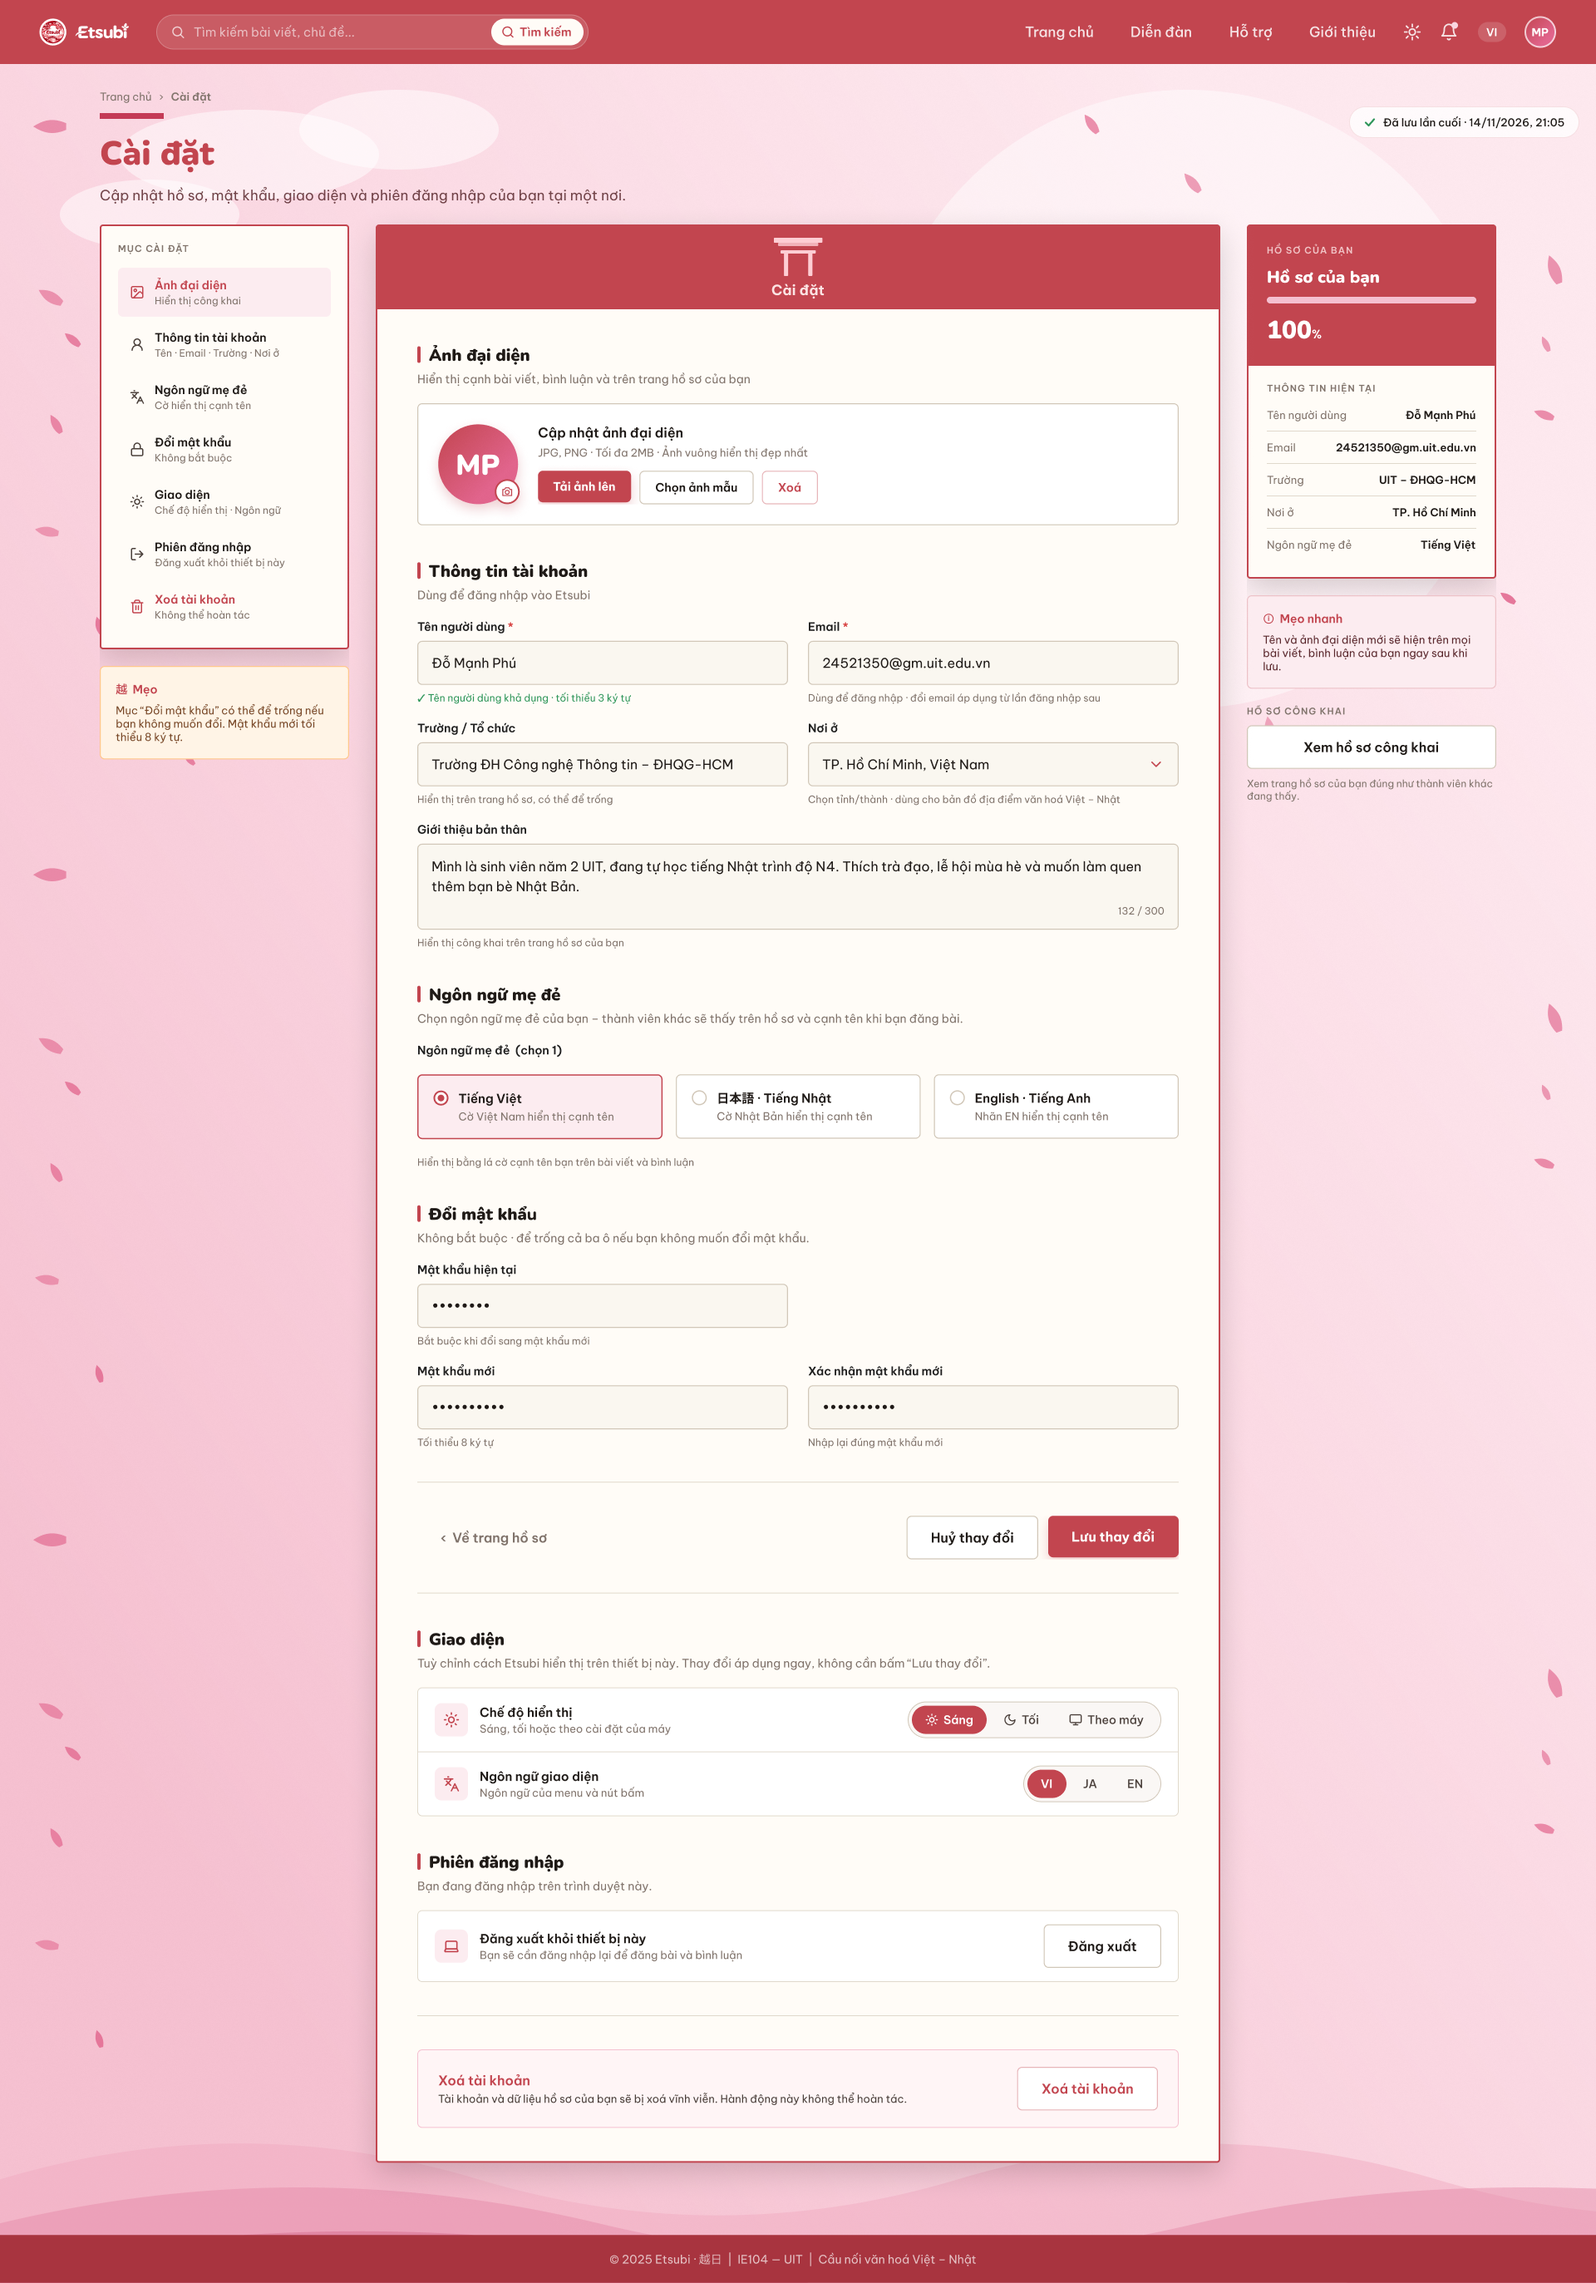
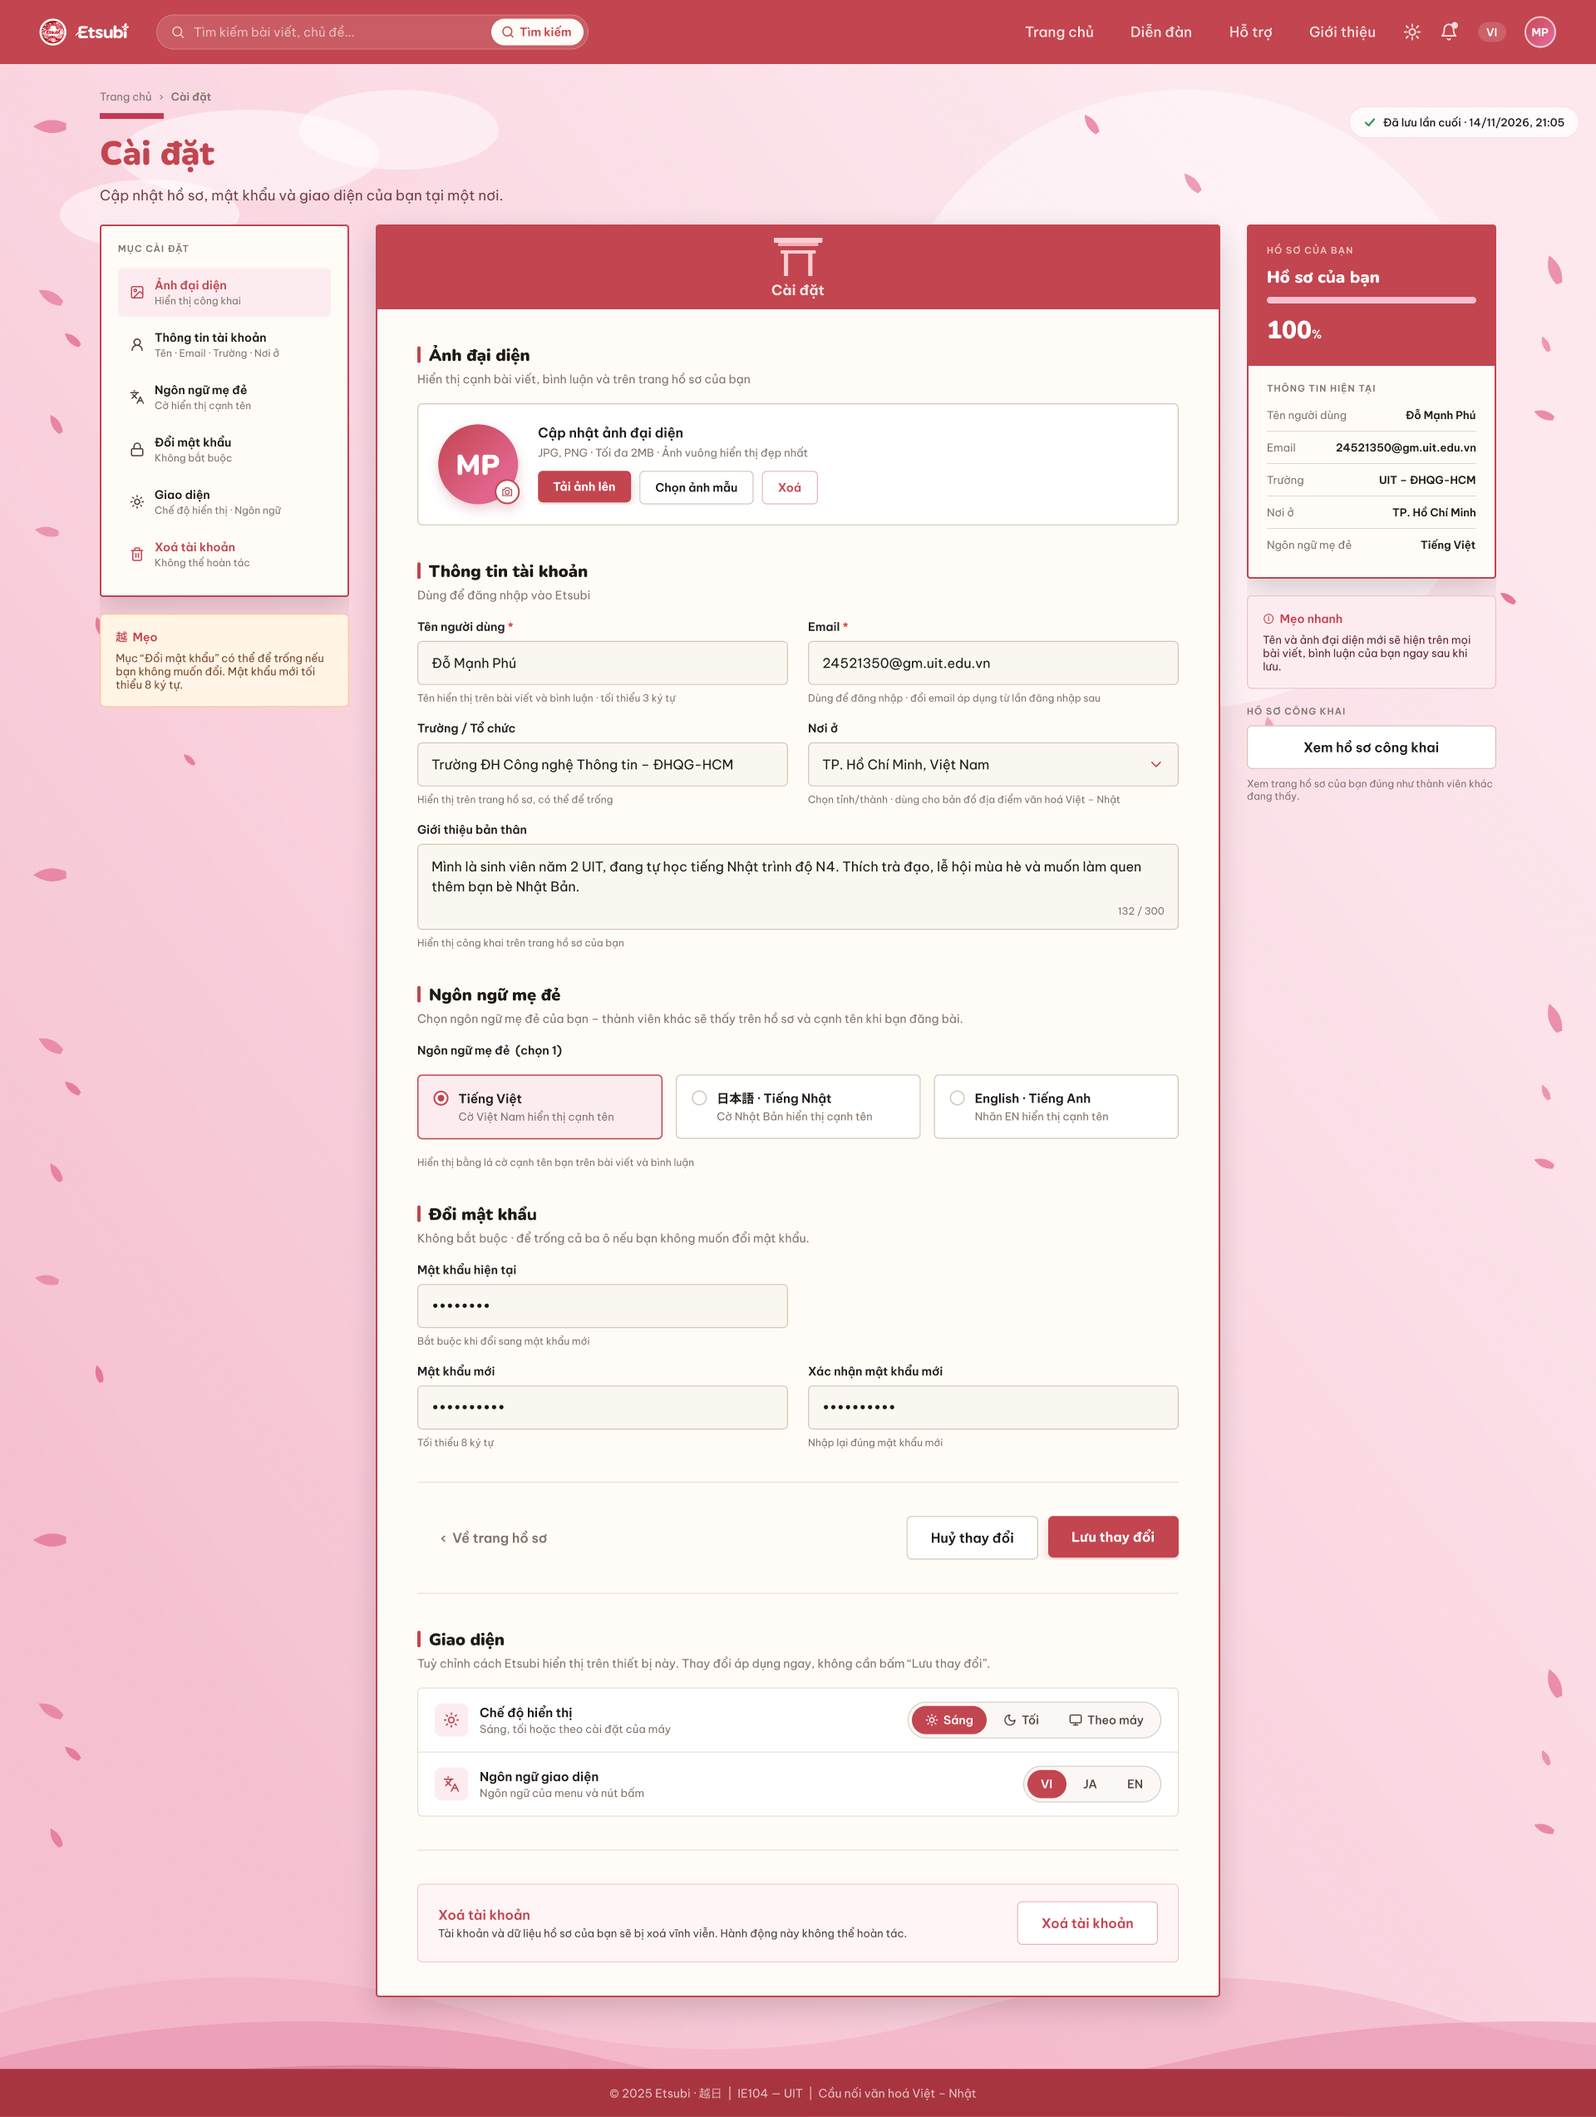
feat(fe): remove the session section from Settings
Follows the updated Figma 323:2611 (1920x2546). Sign-out stays in the avatar
menu; old #section-session links land on Giao diện.

diff --git a/frontend/pages/settings.html b/frontend/pages/settings.html
@@ -35,7 +35,7 @@
             </nav>
             <span class="profile-heading__accent" aria-hidden="true"></span>
             <h1 class="t-display">Cài đặt</h1>
-            <p>Cập nhật hồ sơ, mật khẩu, giao diện và phiên đăng nhập của bạn tại một nơi.</p>
+            <p>Cập nhật hồ sơ, mật khẩu và giao diện của bạn tại một nơi.</p>
           </div>
           <p class="profile-draft" role="status" data-saved-pill>
             <img src="/assets/icons/saved-tick.svg" width="16" height="16" alt="" />
@@ -62,13 +62,6 @@
                   <a class="edit-settings__link" href="#section-appearance" data-settings-link="section-appearance">
                     <svg width="18" height="18" viewBox="0 0 24 24" fill="none" stroke="currentColor" stroke-width="2" stroke-linecap="round" stroke-linejoin="round" aria-hidden="true"><circle cx="12" cy="12" r="4" /><path d="M12 2v2m0 16v2M2 12h2m16 0h2M4.93 4.93l1.42 1.42m11.3 11.3 1.42 1.42M4.93 19.07l1.42-1.42m11.3-11.3 1.42-1.42" /></svg>
                     <span><strong>Giao diện</strong><small>Chế độ hiển thị · Ngôn ngữ</small></span>
-                  </a>
-                </li>
-                <!-- Mục phiên đăng nhập: neo tới khối tương ứng, dùng icon Lucide vuông theo màu chữ. -->
-                <li>
-                  <a class="edit-settings__link" href="#section-session" data-settings-link="section-session">
-                    <svg width="18" height="18" viewBox="0 0 24 24" fill="none" stroke="currentColor" stroke-width="2" stroke-linecap="round" stroke-linejoin="round" aria-hidden="true"><path d="M9 21H5a2 2 0 0 1-2-2V5a2 2 0 0 1 2-2h4m7 14 5-5-5-5m5 5H9" /></svg>
-                    <span><strong>Phiên đăng nhập</strong><small>Đăng xuất khỏi thiết bị này</small></span>
                   </a>
                 </li>
                 <!-- Mục xoá tài khoản: Lucide dùng viewBox vuông, nét tròn và màu kế thừa. -->
@@ -126,7 +119,7 @@
                     <div class="field">
                       <label class="field__label" for="username">Tên người dùng <span class="field__required">*</span></label>
                       <input class="input" id="username" name="username" autocomplete="username" aria-describedby="username-hint" required />
-                      <p class="field__hint" id="username-hint" data-username-hint>Tên cần ít nhất 3 ký tự.</p>
+                      <p class="field__hint" id="username-hint" data-username-hint>Tên hiển thị trên bài viết và bình luận · tối thiểu 3 ký tự</p>
                     </div>
                     <div class="field">
                       <label class="field__label" for="email">Email <span class="field__required">*</span></label>
@@ -251,24 +244,7 @@
                   <p class="field__hint" id="interface-language-hint">Bản dịch JA/EN của giao diện sắp có.</p>
                 </div>
               </section>
-              <!-- Phiên hiện tại có thao tác riêng, không gửi hoặc lưu biểu mẫu hồ sơ. -->
-              <section class="profile-section" id="section-session" tabindex="-1" aria-labelledby="session-title">
-                <div class="profile-section__heading">
-                  <h2 class="t-display" id="session-title">Phiên đăng nhập</h2>
-                  <p>Bạn đang đăng nhập trên trình duyệt này.</p>
-                </div>
-                <div class="settings-list">
-                  <div class="settings-row">
-                    <span class="settings-row__icon"><svg width="20" height="20" viewBox="0 0 24 24" fill="none" stroke="currentColor" stroke-width="2" stroke-linecap="round" stroke-linejoin="round" aria-hidden="true"><path d="M18 5a1 1 0 0 1 1 1v8H5V6a1 1 0 0 1 1-1Zm-16 14h20l-3-5H5Z" /></svg></span>
-                    <div class="settings-row__copy">
-                      <h3>Đăng xuất khỏi thiết bị này</h3>
-                      <p>Bạn sẽ cần đăng nhập lại để đăng bài và bình luận</p>
-                    </div>
-                    <button class="btn btn--secondary" type="button" data-logout disabled>Đăng xuất</button>
-                  </div>
-                </div>
-              </section>
-              <!-- Vạch ngăn tách hành động xoá vĩnh viễn khỏi quản lý phiên. -->
+              <!-- Một vạch ngăn tách Giao diện khỏi hành động xoá tài khoản vĩnh viễn. -->
               <hr class="settings-divider" />
               <!-- Vùng nguy hiểm cần xác nhận riêng bằng mật khẩu và không tự gửi form hồ sơ. -->
               <section class="edit-danger" id="section-delete" tabindex="-1" aria-labelledby="delete-title">

diff --git a/frontend/pages/settings.js b/frontend/pages/settings.js
@@ -50,7 +50,7 @@ let navigationSection = location.hash.slice(1);
 
 // Gợi ý mặc định được khôi phục khi huỷ hoặc khi người dùng sửa ô đang có lỗi.
 const defaultHints = {
-  username: 'Tên cần ít nhất 3 ký tự.',
+  username: 'Tên hiển thị trên bài viết và bình luận · tối thiểu 3 ký tự',
   email: 'Dùng để đăng nhập · đổi email áp dụng từ lần đăng nhập sau',
   bio: 'Hiển thị công khai trên trang hồ sơ của bạn',
   native: 'Hiển thị bằng lá cờ cạnh tên bạn trên bài viết và bình luận',
@@ -144,12 +144,8 @@ function setFieldError(name, message = '') {
   }
   hint.textContent = message || defaultHints[name];
   hint.classList.toggle('field__hint--error', Boolean(message));
-  const valid = name === 'username' && !message && validUsername(input(name).value);
-  hint.classList.toggle('field__hint--success', valid);
-  if (valid) {
-    // Câu chữ từ Figma chỉ xác nhận độ dài cục bộ; API kiểm tra trùng tên khi bấm lưu.
-    hint.textContent = '✓ Tên người dùng khả dụng · tối thiểu 3 ký tự';
-  }
+  // Gợi ý hợp lệ dùng màu muted, chỉ xác nhận độ dài; giữ nguyên lỗi từ máy chủ.
+  hint.classList.remove('field__hint--success');
 }
 
 /** Khôi phục mọi gợi ý và bỏ lỗi form khi huỷ hoặc khi tải thành công. */
@@ -239,7 +235,6 @@ function setBusy(value, saving = false) {
   fields.disabled = value || !ready;
   submitButton.disabled = value || !ready;
   qs('[data-delete-open]').disabled = value || !ready;
-  qs('[data-logout]').disabled = value || !ready;
   form.setAttribute('aria-busy', String(value));
   submitButton.textContent = saving ? 'Đang lưu…' : 'Lưu thay đổi';
   if (serverValues) {
@@ -426,7 +421,7 @@ function activateSection(id) {
   }
 }
 
-/** Mỗi lần cuộn chỉ đo bảy đề mục và chọn mục gần mép trên khả dụng nhất, không điều khiển chuyển động. */
+/** Mỗi lần cuộn chỉ đo sáu đề mục và chọn mục gần mép trên khả dụng nhất, không điều khiển chuyển động. */
 function updateActiveSection() {
   const top = qs('[data-component="header"]').getBoundingClientRect().bottom;
   let closest = null;
@@ -604,15 +599,15 @@ function initializePreferences() {
   }
 }
 
-/** Tiện ích đăng xuất tự xoá phiên và về routes.home kể cả khi lỗi mạng. */
-async function logoutSession() {
-  if (!ready || busy || deleting) {
+/** Liên kết phiên cũ chuyển tới Giao diện mà không thêm lịch sử hoặc cuộn mượt. */
+function redirectLegacySessionAnchor() {
+  if (location.hash !== '#section-session') {
     return;
   }
-  setBusy(true);
-  const button = qs('[data-logout]');
-  button.textContent = 'Đang đăng xuất…';
-  await logout();
+  history.replaceState(history.state, '', location.pathname + location.search + '#section-appearance');
+  navigationSection = 'section-appearance';
+  activateSection(navigationSection);
+  document.getElementById(navigationSection).scrollIntoView({ behavior: 'instant' });
 }
 
 /** Gắn sự kiện một lần; không có beforeunload, autosave, hiệu ứng cuộn hoặc phụ thuộc thư viện. */
@@ -645,7 +640,6 @@ function initialize() {
   qs('[data-remove-avatar]').addEventListener('click', removeAvatar);
   resetButton.addEventListener('click', resetProfile);
   qs('[data-retry]').addEventListener('click', loadProfile);
-  qs('[data-logout]').addEventListener('click', logoutSession);
   qs('[data-delete-open]').addEventListener('click', openDeleteDialog);
   qs('[data-delete-cancel]').addEventListener('click', closeDeleteDialog);
   deleteDialog.addEventListener('cancel', closeDeleteDialog);
@@ -659,6 +653,7 @@ function initialize() {
   window.addEventListener('resize', updateActiveSection);
   window.matchMedia('(max-width: 600px)').addEventListener('change', arrangeActions);
   arrangeActions();
+  redirectLegacySessionAnchor();
   void loadProfile();
 }
 

diff --git a/frontend/styles/pages/settings.css b/frontend/styles/pages/settings.css
@@ -1,4 +1,4 @@
-/* Cài đặt dùng lại toàn bộ bố cục chỉnh sửa hồ sơ; chỉ bổ sung các khối giao diện và phiên. */
+/* Cài đặt dùng lại bố cục chỉnh sửa hồ sơ; chỉ bổ sung khối Giao diện lưu riêng trên trình duyệt. */
 .page--settings .settings-appearance {
   padding-top: var(--space-8);
   border-top: 1px solid var(--color-border);
@@ -161,9 +161,8 @@
     gap: var(--space-3);
   }
 
-  /* Radio và nút đăng xuất phủ hết hàng tiếp theo, giữ thứ tự Tab khớp thứ tự nhìn. */
-  .settings-segments,
-  .settings-row > .btn {
+  /* Radio phủ hết hàng tiếp theo, giữ thứ tự Tab khớp thứ tự nhìn. */
+  .settings-segments {
     flex-basis: 100%;
     width: 100%;
   }
